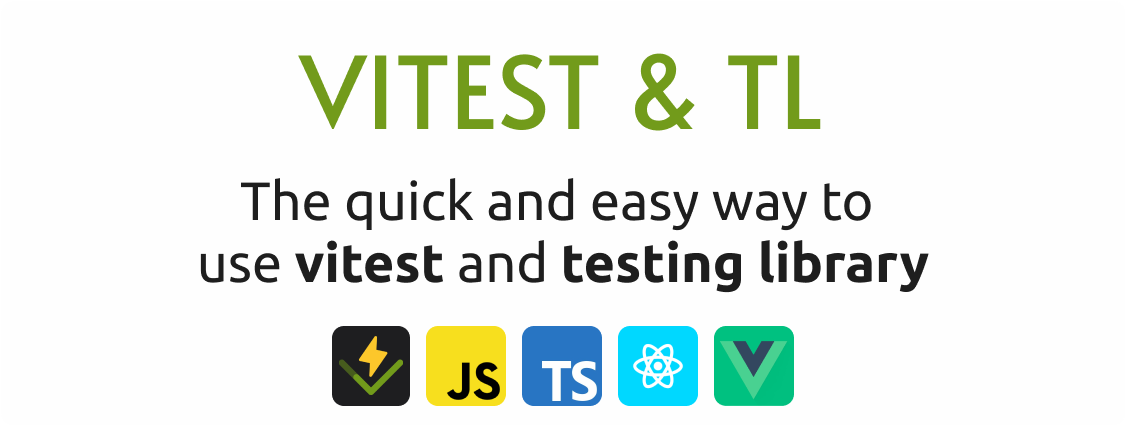
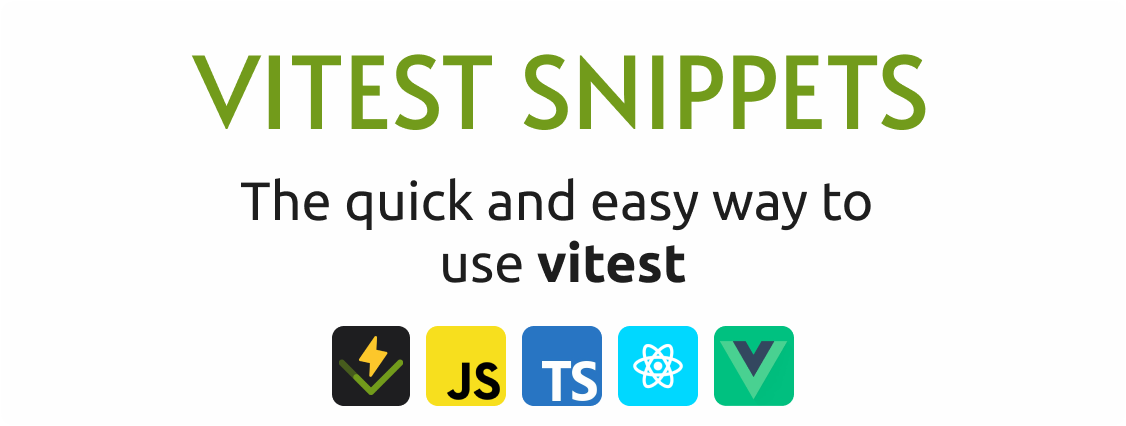
removed testing library snippets

Changed region(s): [[0.1554, 0.1221, 0.8393, 0.3052], [0.1554, 0.5493, 0.8393, 0.7019]]

diff --git a/README.md b/README.md
@@ -79,9 +79,6 @@ Below is a list of all available snippets and the triggers of each one. The `░
 |  Trigger | Result                                                            |
 | -------: | ----------------------------------------------------------------- |
 |    `iv→` | `import { it, expect, describe } from 'vitest'█`                  |
-|   `itl→` | `import { render, screen } from '@testing-library/░<react\|vue>█`  |
-|   `itr→` | `import { render, screen } from '@testing-library/react█`         |
-|   `itv→` | `import { render, screen } from '@testing-library/vue█`           |
 
 ### Setup
 
@@ -99,6 +96,7 @@ Below is a list of all available snippets and the triggers of each one. The `░
 |  Trigger | Result                                                                 |
 | -------: | ---------------------------------------------------------------------- |
 |     `d→` | <code>describe('░group', () => {<br/>&nbsp;&nbsp;█<br/>})</code>       |
+|  `desc→` | <code>describe('░group', () => {<br/>&nbsp;&nbsp;█<br/>})</code>       |
 |    `do→` | <code>describe.only('░group', () => {<br/>&nbsp;&nbsp;█<br/>})</code>  |
 |    `ds→` | <code>describe.skip('░group', () => {<br/>&nbsp;&nbsp;█<br/>})</code>  |
 
@@ -122,9 +120,10 @@ Below is a list of all available snippets and the triggers of each one. The `░
 |  Trigger | Result                                                             |
 | -------: | ------------------------------------------------------------------ |
 |     `i→` | <code>it('░should', () => {<br/>&nbsp;&nbsp;█<br/>})</code>        |
+|    `it→` | <code>it('░should', () => {<br/>&nbsp;&nbsp;█<br/>})</code>        |
 |    `io→` | <code>it.only('░should', () => {<br/>&nbsp;&nbsp;█<br/>})</code>   |
 |    `is→` | <code>it.skip('░should', () => {<br/>&nbsp;&nbsp;█<br/>})</code>   |
-|    `it→` | `it.todo('░should')█`                                              |
+|   `itd→` | `it.todo('░should')█`                                              |
 |    `ia→` | <code>it('░should', async () => {<br/>&nbsp;&nbsp;█<br/>})</code>  |
 
 ### Test
@@ -134,7 +133,7 @@ Below is a list of all available snippets and the triggers of each one. The `░
 |     `t→` | <code>test('░should', () => {<br/>&nbsp;&nbsp;█<br/>})</code>       |
 |    `to→` | <code>test.only('░should', () => {<br/>&nbsp;&nbsp;█<br/>})</code>  |
 |    `ts→` | <code>test.skip('░should', () => {<br/>&nbsp;&nbsp;█<br/>})</code>  |
-|    `tt→` | `test.todo('░should')█`                                             |
+|   `ttd→` | `test.todo('░should')█`                                             |
 |    `ta→` | <code>test('░should', async () => {<br/>&nbsp;&nbsp;█<br/>})</code> |
 
 ### Expect

diff --git a/CHANGELOG.md b/CHANGELOG.md
@@ -9,6 +9,16 @@ Fixed       for any bug fixes.
 Security    to invite users to upgrade in case of vulnerabilities.
 -->
 
+## 1.5.0 - 2023/04/03
+
+### Added
+
+- Alias for `it` and `desc`
+
+### Removed
+
+- removed all the Testing Library snippets to a new extension (WIP)
+
 ## 1.4.1 - 2023/04/03
 
 ### Fixed
